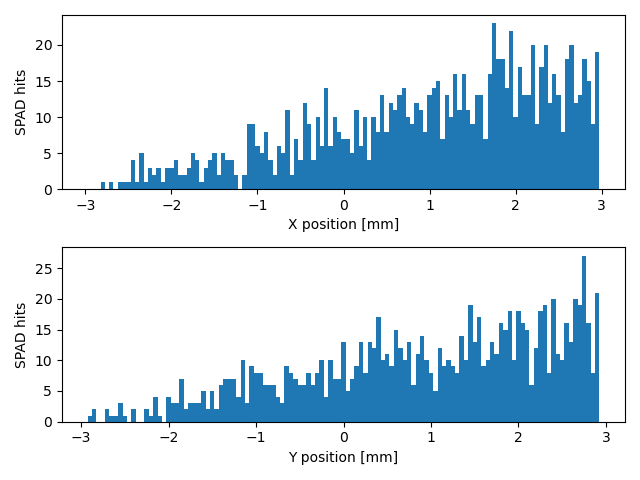
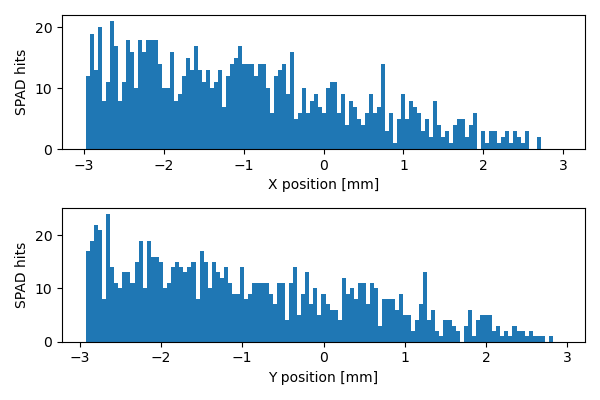
added linear distribution sim

Changed region(s): [[0.0, 0.03, 0.99, 0.48], [0.0, 0.51, 0.99, 0.96]]

diff --git a/beamMC.py b/beamMC.py
@@ -43,8 +43,8 @@ def MCuni(n):
 def MClinear(n):
     X=[];Y=[]
     for i in range(n):
-        X.append(random.triangular(-dx/2,dx/2,dx/2))
-        Y.append(random.triangular(-dy/2,dy/2,dy/2))
+        X.append(random.triangular(-dx/2,dx/2,-dx/2))
+        Y.append(random.triangular(-dy/2,dy/2,-dy/2))
     data['hitx'] = X
     data['hity'] = Y  
 
@@ -101,10 +101,11 @@ def MCSiPM(pde):
     # Compare the physical coordinates against the beam radius
     # Determine the SPAD indicies within each box of radius i*w0/2
     rx=[];ry=[]
-    if w1 < dx and w2 < dy:
-        for i in range(1,5):
-            rx.append([np.where(x<-w1*i/2)[0][-1],np.where(x<w1*i/2)[0][-1]])
-            ry.append([np.where(y<-w2*i/2)[0][-1],np.where(y<w2*i/2)[0][-1]])
+    if SIM == 'gauss' or SIM == 'agauss' or SIM == 'slit':     
+        if w1 < dx and w2 < dy:
+            for i in range(1,5):
+                rx.append([np.where(x<-w1*i/2)[0][-1],np.where(x<w1*i/2)[0][-1]])
+                ry.append([np.where(y<-w2*i/2)[0][-1],np.where(y<w2*i/2)[0][-1]])
     rx.append([0,xi]);ry.append([0,yi])
     # Array for tracking which SPAD has been checked
     data['sipm'] = np.ones([xi,yi])
@@ -308,7 +309,7 @@ if __name__ == "__main__":
     # SiPM width/height
     dx = 5.95
     dy = 5.85
-    # What simulation are we running?
+    # What simulation is running?
     #SIM = 'gauss'
     #SIM = 'slit'
     #SIM = 'uni'
